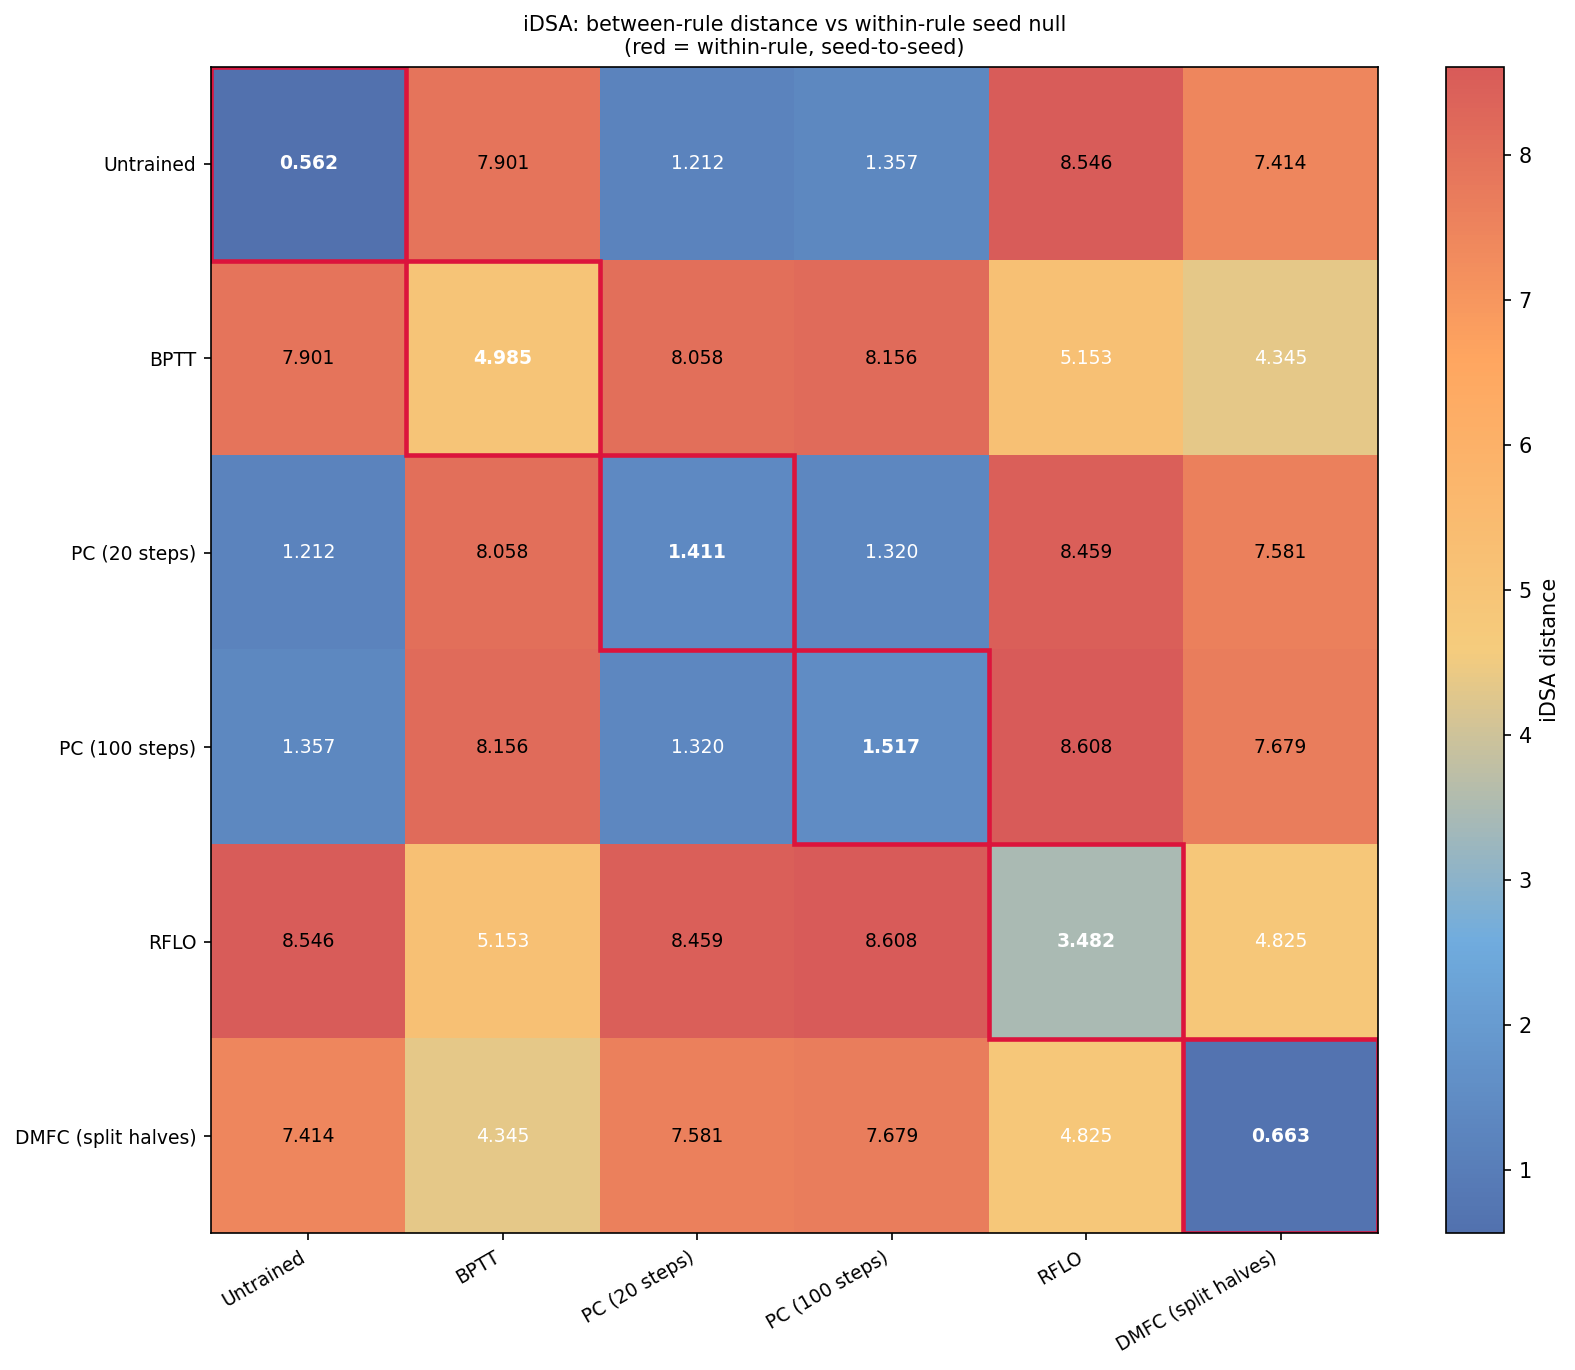
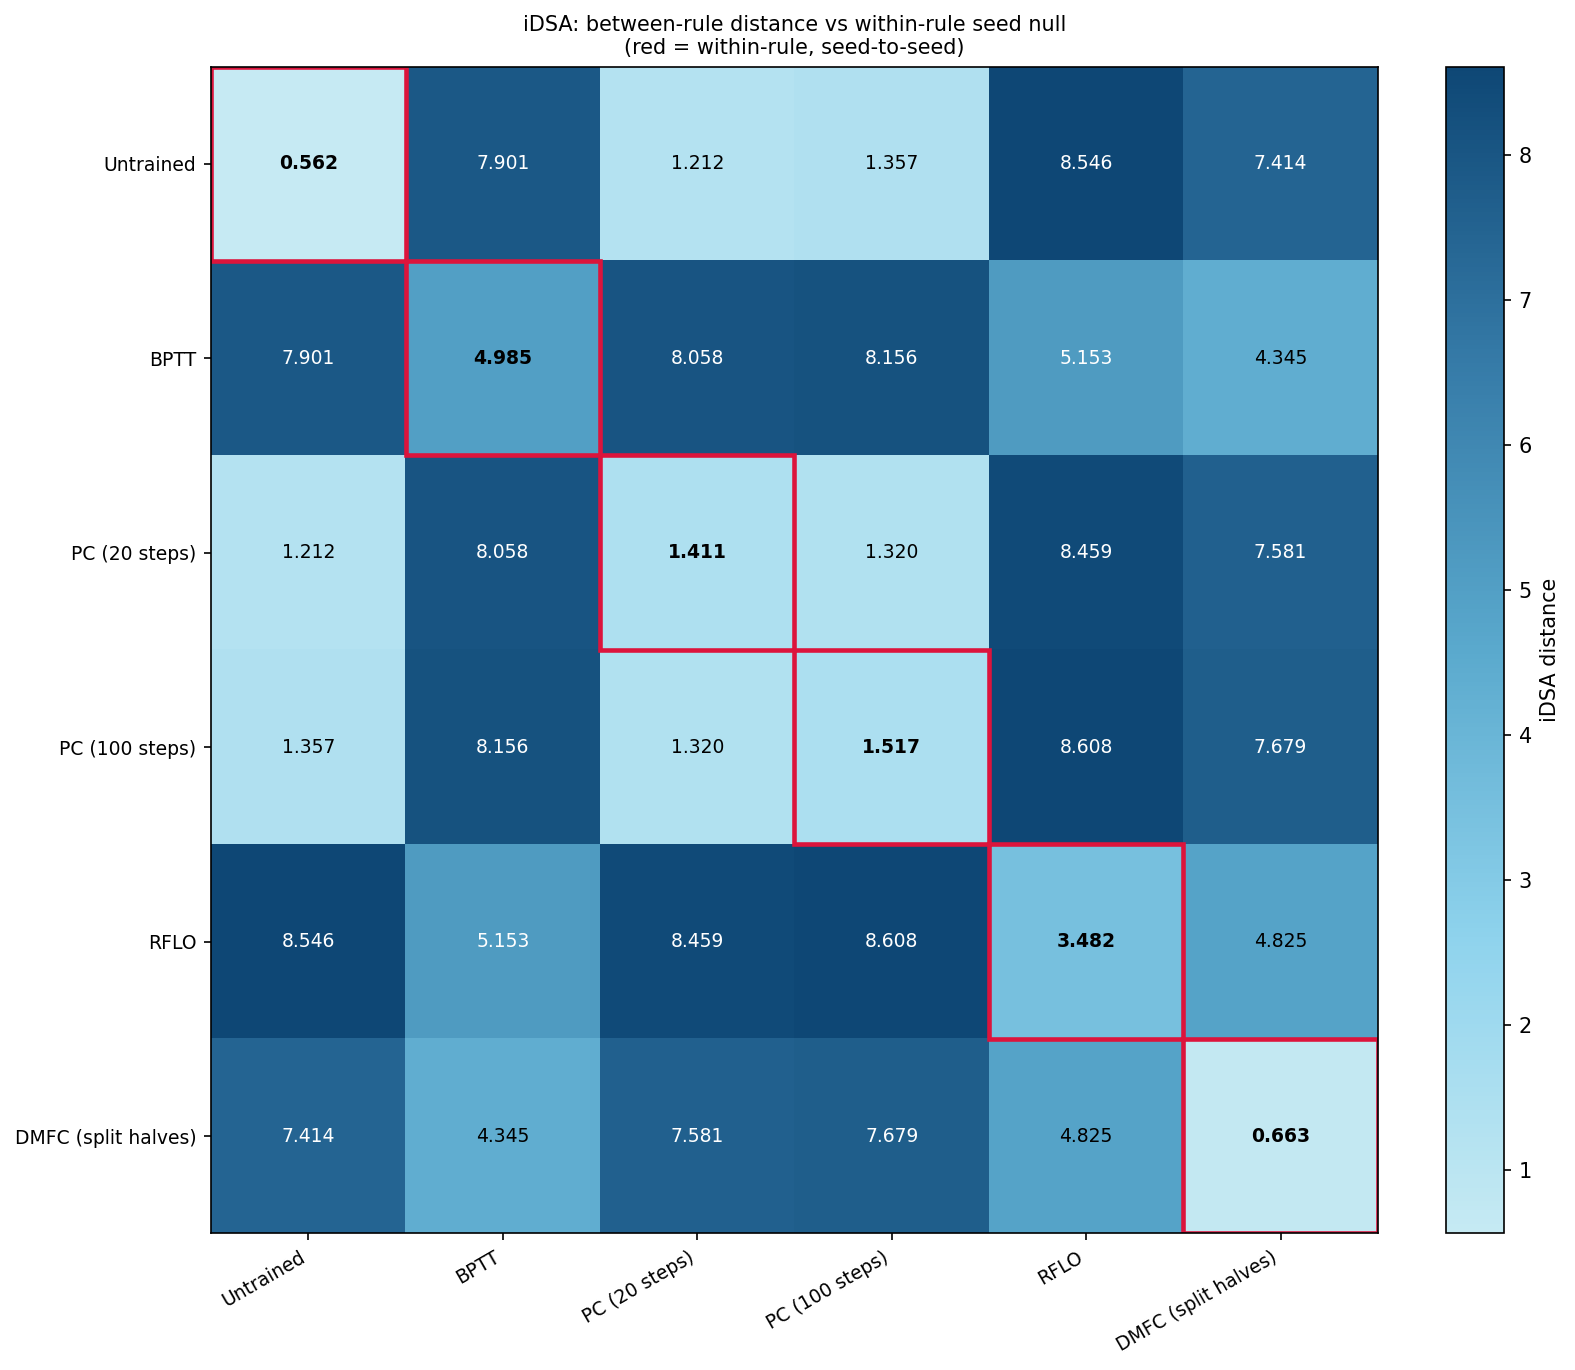
Refine RQ1 matrix color scale

diff --git a/src/viz/figures.py b/src/viz/figures.py
@@ -31,6 +31,7 @@ from src.viz.palette import (  # noqa: E402  shared figure colors
     ARM_COLORS,
     DELTA_NEG,
     DELTA_POS,
+    MATRIX_CMAP,
     PRIOR_COLORS,
     RDM_CMAP,
     arm_color,
@@ -653,17 +654,21 @@ def within_between_matrix_figure(
     disp = [labels.get(a, a) if labels else a for a in arms]
 
     fig, ax = plt.subplots(figsize=(1.55 * len(arms) + 2.4, 1.35 * len(arms) + 2.0))
-    im = ax.imshow(mean, cmap=RDM_CMAP)
+    im = ax.imshow(mean, cmap=MATRIX_CMAP)
     ax.set_xticks(range(len(arms)))
     ax.set_yticks(range(len(arms)))
     ax.set_xticklabels(disp, rotation=30, ha="right", fontsize=9)
     ax.set_yticklabels(disp, fontsize=9)
-    vmid = np.nanmean(mean)
+    # MATRIX_CMAP runs light (low) to dark (high), so white text goes on the dark
+    # (high-value) cells. Threshold on the normalized value, not the mean.
+    finite = mean[np.isfinite(mean)]
+    vlo, vhi = (finite.min(), finite.max()) if finite.size else (0.0, 1.0)
+    span = vhi - vlo or 1.0
     for i in range(len(arms)):
         for j in range(len(arms)):
             if not np.isfinite(mean[i, j]):
                 continue
-            face = "white" if mean[i, j] < vmid else "black"
+            face = "white" if (mean[i, j] - vlo) / span > 0.55 else "black"
             weight = "bold" if i == j else "normal"
             ax.text(j, i, f"{mean[i, j]:.3f}", ha="center", va="center",
                     color=face, fontsize=9, fontweight=weight)

diff --git a/src/viz/palette.py b/src/viz/palette.py
@@ -21,9 +21,14 @@ from matplotlib.colors import LinearSegmentedColormap
 # Five anchor hues (the provided scheme): blue -> light blue -> yellow -> orange -> red.
 _ANCHORS = ["#5271AE", "#70ACDE", "#F5CC7D", "#FFA660", "#D85B59"]
 
-# Continuous ramp for heatmaps (RDMs, within/between matrices). Sequential reading:
+# Continuous ramp for condition-RDM heatmaps and galleries. Sequential reading:
 # low value = blue, high value = red.
 RDM_CMAP = LinearSegmentedColormap.from_list("rsg_blue_red", _ANCHORS, N=256)
+
+# Monochrome blue ramp for the arm-by-arm within/between distance matrices. Light blue
+# is a small distance (near), dark blue is a large distance (far).
+_BLUES = ["#C6EAF3", "#8FD3ED", "#5AA9CD", "#357AA7", "#0E4775"]
+MATRIX_CMAP = LinearSegmentedColormap.from_list("rsg_blues", _BLUES, N=256)
 
 # Categorical arm colors. Keys are the canonical arm/rule labels used across the
 # pipeline; PC's two step-counts sit next to each other in the warm range on purpose.

diff --git a/presentation_results.md b/presentation_results.md
@@ -6,9 +6,10 @@ architecture is fixed across arms (BPTT, PC at 20 and 100 inference steps, RFLO,
 untrained control), so any difference is the rule, not the network.
 
 Each figure below has a one-line "what it shows", the number that matters, and a sentence
-you can say out loud. All arm colors and the heatmap ramp come from one shared scheme
-(`src/viz/palette.py`): BPTT blue, PC(20) yellow, PC(100) orange, RFLO red, untrained gray;
-heatmaps run blue (near) to red (far).
+you can say out loud. Colors come from one shared scheme (`src/viz/palette.py`). Arm colors:
+BPTT blue, PC(20) yellow, PC(100) orange, RFLO red, untrained gray. The RQ1 within/between
+matrices use shades of blue (light is near, dark is far); the Setup condition RDMs run blue
+(near) to red (far).
 
 ## If you only have 60 seconds
 